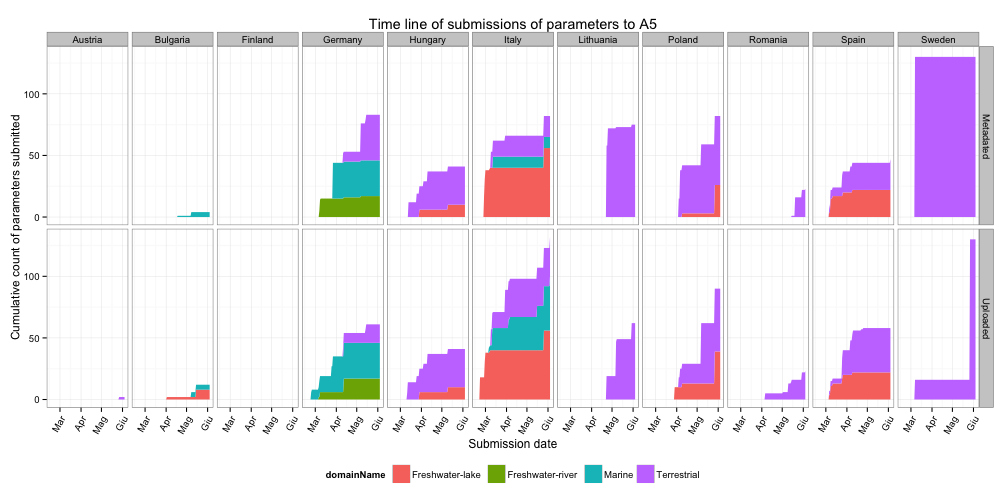
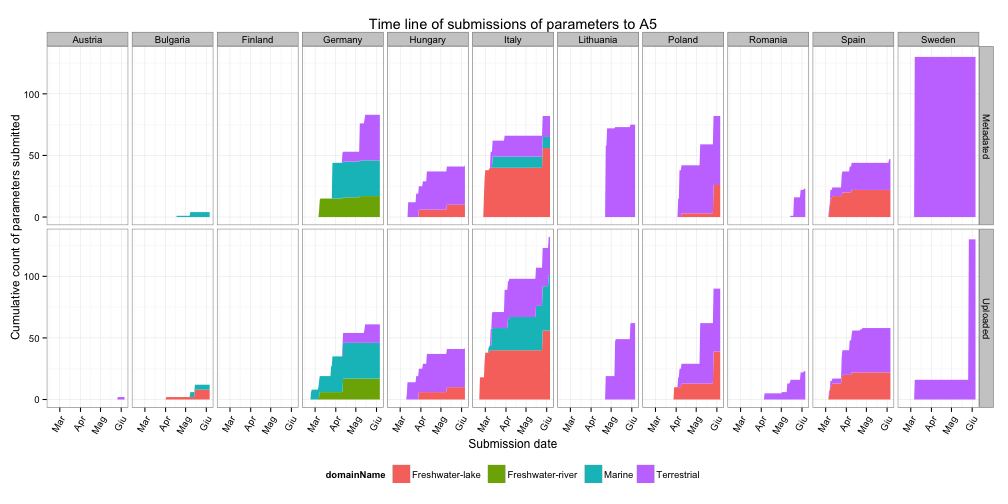
publishing deck

Changed region(s): [[0.0615, 0.8036, 0.5536, 0.8631], [0.5843, 0.8036, 0.7996, 0.8631], [0.8304, 0.8036, 0.9841, 0.8631]]

diff --git a/index.html b/index.html
@@ -48,9 +48,9 @@
   </hgroup>
   <article>
     <ul>
-<li>Last updated <code>2013-06-04</code></li>
+<li>Last updated <code>2013-06-06</code></li>
 <li>Deadline for data submission: <code>2013-03-08</code></li>
-<li>Days to deadline: <code>-88</code></li>
+<li>Days to deadline: <code>-90</code></li>
 <li>Total number of sites sampled in 2012: <code>62</code>; sub-sites: <code>66</code></li>
 </ul>
 
@@ -58,13 +58,13 @@
 
 <!-- html table generated in R 3.0.1 by xtable 1.7-1 package -->
 
-<!-- Tue Jun  4 14:20:32 2013 -->
+<!-- Thu Jun  6 13:55:13 2013 -->
 
 <TABLE border=1>
 <TR> <TH>  </TH> <TH> No. uploaded </TH> <TH> No. metadated </TH> <TH> Total no. </TH> <TH> Upload ratio </TH> <TH> Metadata ratio </TH>  </TR>
-  <TR> <TD align="right"> Year2012 </TD> <TD align="right"> 472 </TD> <TD align="right"> 444 </TD> <TD align="right"> 1044 </TD> <TD align="right"> 0.45 </TD> <TD align="right"> 0.43 </TD> </TR>
+  <TR> <TD align="right"> Year2012 </TD> <TD align="right"> 473 </TD> <TD align="right"> 445 </TD> <TD align="right"> 1044 </TD> <TD align="right"> 0.45 </TD> <TD align="right"> 0.43 </TD> </TR>
   <TR> <TD align="right"> Year2011 </TD> <TD align="right"> 139 </TD> <TD align="right"> 123 </TD> <TD align="right"> 275 </TD> <TD align="right"> 0.51 </TD> <TD align="right"> 0.45 </TD> </TR>
-  <TR> <TD align="right"> Sum </TD> <TD align="right"> 611 </TD> <TD align="right"> 567 </TD> <TD align="right"> 1319 </TD> <TD align="right"> 0.46 </TD> <TD align="right"> 0.43 </TD> </TR>
+  <TR> <TD align="right"> Sum </TD> <TD align="right"> 612 </TD> <TD align="right"> 568 </TD> <TD align="right"> 1319 </TD> <TD align="right"> 0.46 </TD> <TD align="right"> 0.43 </TD> </TR>
    </TABLE>
 
   </article>

diff --git a/index.md b/index.md
@@ -26,19 +26,19 @@ github:
 
 ## State of uploading process
 
-* Last updated ``2013-06-04``
+* Last updated ``2013-06-06``
 * Deadline for data submission: `2013-03-08`
-* Days to deadline: ``-88``
+* Days to deadline: ``-90``
 * Total number of sites sampled in 2012: ``62``; sub-sites: ``66``
 
 Parameters uploaded and metadated:
 <!-- html table generated in R 3.0.1 by xtable 1.7-1 package -->
-<!-- Tue Jun  4 14:20:32 2013 -->
+<!-- Thu Jun  6 13:55:13 2013 -->
 <TABLE border=1>
 <TR> <TH>  </TH> <TH> No. uploaded </TH> <TH> No. metadated </TH> <TH> Total no. </TH> <TH> Upload ratio </TH> <TH> Metadata ratio </TH>  </TR>
-  <TR> <TD align="right"> Year2012 </TD> <TD align="right"> 472 </TD> <TD align="right"> 444 </TD> <TD align="right"> 1044 </TD> <TD align="right"> 0.45 </TD> <TD align="right"> 0.43 </TD> </TR>
+  <TR> <TD align="right"> Year2012 </TD> <TD align="right"> 473 </TD> <TD align="right"> 445 </TD> <TD align="right"> 1044 </TD> <TD align="right"> 0.45 </TD> <TD align="right"> 0.43 </TD> </TR>
   <TR> <TD align="right"> Year2011 </TD> <TD align="right"> 139 </TD> <TD align="right"> 123 </TD> <TD align="right"> 275 </TD> <TD align="right"> 0.51 </TD> <TD align="right"> 0.45 </TD> </TR>
-  <TR> <TD align="right"> Sum </TD> <TD align="right"> 611 </TD> <TD align="right"> 567 </TD> <TD align="right"> 1319 </TD> <TD align="right"> 0.46 </TD> <TD align="right"> 0.43 </TD> </TR>
+  <TR> <TD align="right"> Sum </TD> <TD align="right"> 612 </TD> <TD align="right"> 568 </TD> <TD align="right"> 1319 </TD> <TD align="right"> 0.46 </TD> <TD align="right"> 0.43 </TD> </TR>
    </TABLE>
 
 
